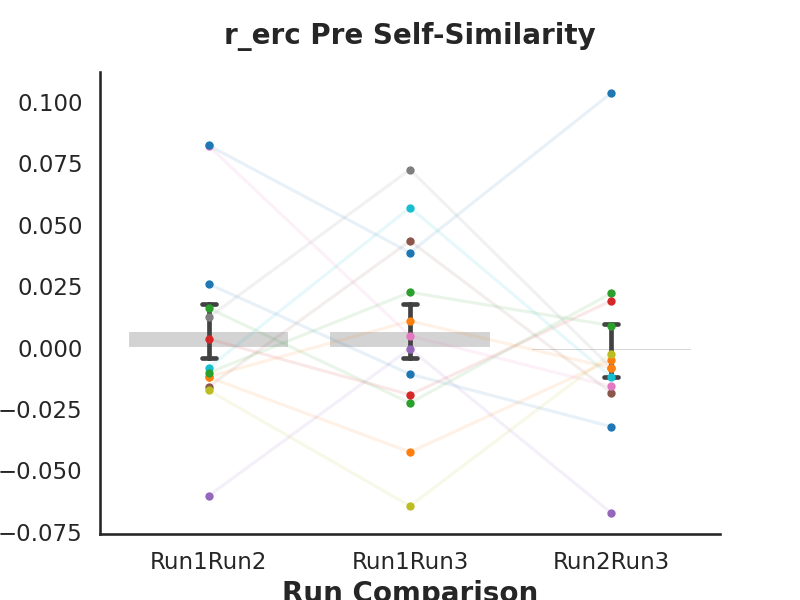
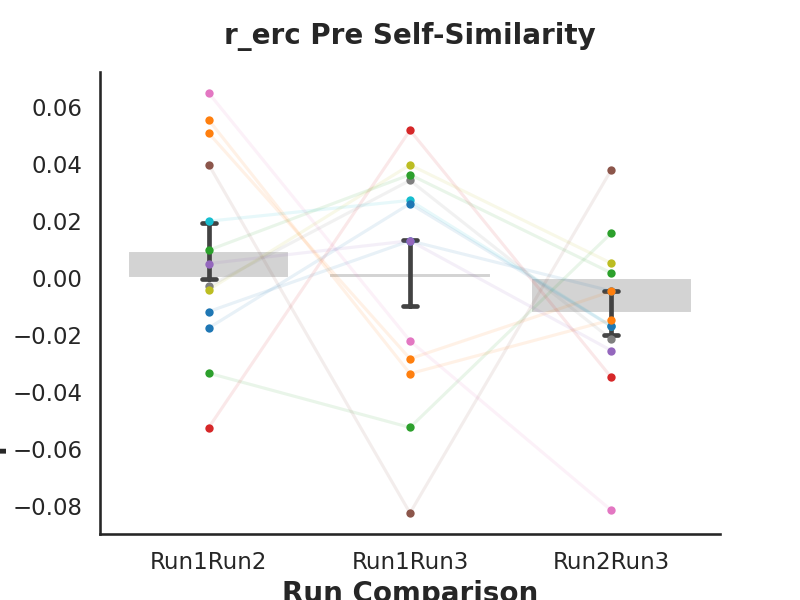
post

diff --git a/RSA/validate_prepost.py b/RSA/validate_prepost.py
@@ -6,7 +6,7 @@ import pandas as pd
 import networkx as nx
 from plot_prepost import plot_validation_prepost
 
-def validate_prepost(npz_name:str="rsa_validation_results.npz"):
+def validate_prepost(npz_name:str="rsa_validation_results_post.npz"):
     """Saves prepost roi rsa data to an npz"""
     betas = 0 # If you have multiple beta comparisons can adjust
 
@@ -48,10 +48,10 @@ def validate_prepost(npz_name:str="rsa_validation_results.npz"):
             prepost_size = int(rsa.shape[0]/2)
 
             pre = rsa[:prepost_size, :prepost_size]
-            # post = rsa[prepost_size:prepost_size*2, prepost_size:prepost_size*2]
+            post = rsa[prepost_size:prepost_size*2, prepost_size:prepost_size*2]
             # diff = post - pre
             
-            n = pre.shape[0]
+            n = post.shape[0]
 
             simdata = {
                 (1, 2): [],
@@ -65,7 +65,7 @@ def validate_prepost(npz_name:str="rsa_validation_results.npz"):
                     if run[x] != run[y] and node[x] == node[y]:
 
                         pair = tuple(sorted([run[x], run[y]]))
-                        simdata[pair].append(pre[x, y])
+                        simdata[pair].append(post[x, y])
 
             # length is num of run comparisons
             subdata = [np.mean(simdata[pair]) for pair in [(1, 2), (1, 3), (2, 3)]]

diff --git a/RSA/plot_prepost.py b/RSA/plot_prepost.py
@@ -41,7 +41,7 @@ def plot_prepost(datafile:str='rsa_results.npz'):
         plt.show()
         plt.savefig(f"./figures/{label}_roi_rsa_3_runs.png")
 
-def plot_validation_prepost(filename:str='rsa_validation_results.npz'):
+def plot_validation_prepost(filename:str='rsa_validation_results_post.npz'):
 
     datafile = np.load(f"./ROI_RSA/{filename}",allow_pickle=True)
 
